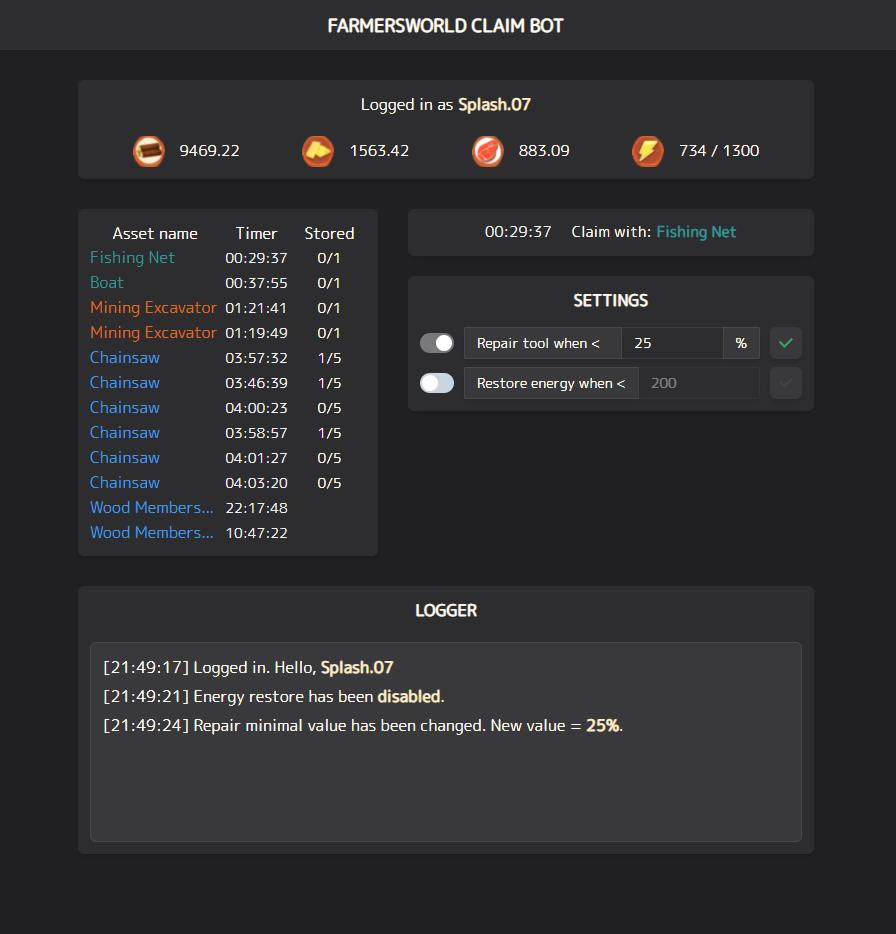
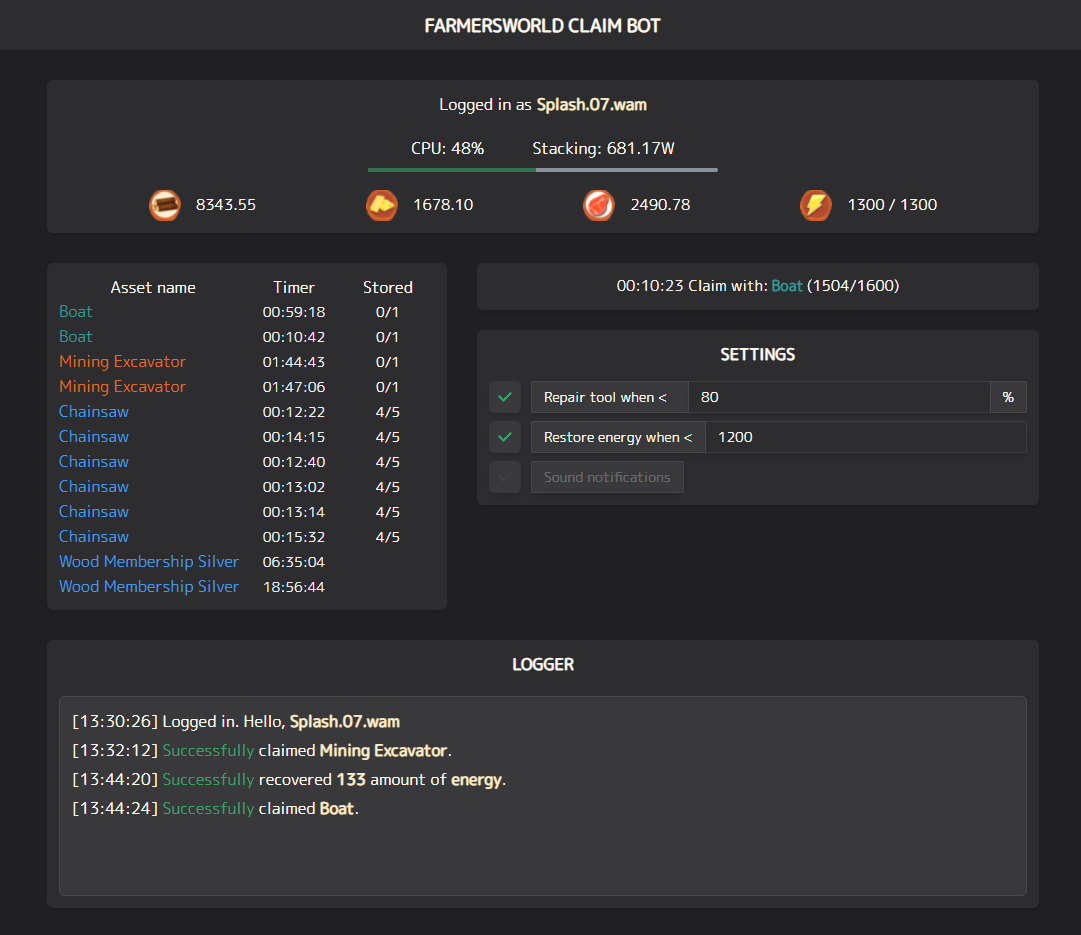
#6 v1.0.0

diff --git a/src/components/NextAction.tsx b/src/components/NextAction.tsx
@@ -13,25 +13,31 @@ const notify_sound = require("../assets/notify_sound.mp3");
 
 const NextAction = () => {
   const { user, settings } = useSelector((state: RootState) => state);
+  const [triggerAction, setTriggerAction] = useState(false);
   const dispatch = useDispatch();
-  const color = getTextColor(user.items.next?.type!);
 
   const [breakPoint480] = useMediaQuery("(min-width: 480px)");
   const [notificationSound] = useSound(notify_sound);
 
+  let nextItem = user.items.next;
+  const color = getTextColor(nextItem?.type!);
+
   useEffect(() => {
-    if (user.items.next && user.items.next?.timer_to_action < 0) {
+    console.log(triggerAction);
+    if (triggerAction) {
       (async () => {
         dispatch(toggleUpdateData(false)); // prevent data update, while doing actions
-        await handleNextAction(user, settings);
         if (!settings.soundIsDisabled) notificationSound();
-        await sleep(8000);
+        await handleNextAction(user, settings);
+        await sleep(5000);
         dispatch(toggleUpdateData(true));
+        await sleep(3000);
+        setTriggerAction(false);
       })();
     }
-  }, [user.items.next?.timer_to_action, user.items.next]);
+  }, [triggerAction]);
 
-  if (user.items.next?.timer_to_action === undefined) return <div>Loading</div>;
+  if (nextItem?.timer_to_action === undefined) return <div>Loading</div>;
 
   return (
     <Flex
@@ -44,16 +50,14 @@ const NextAction = () => {
       justifyContent="center"
       fontSize="15px"
     >
-      {/* <Box color={user.items.next.timer_to_action < 0 ? "tomato" : "whiteAlpha.900"}>{msToTime(user.items.next.timer_to_action)}</Box> */}
-      <Countdown timer={user.items.next.timer_to_action} />
-      <Flex gap="3px">
+      {/* <Box color={nextItem.timer_to_action < 0 ? "tomato" : "whiteAlpha.900"}>{msToTime(nextItem.timer_to_action)}</Box> */}
+      <Countdown setTriggerAction={setTriggerAction} timer={nextItem.timer_to_action} />
+      <Flex gap="3px" alignItems="center">
         <Text display={breakPoint480 ? "block" : "none"}>Claim with:</Text>
-        <Text color={color} fontWeight="semibold" maxWidth="20ch" isTruncated>
-          {assetNameMap.get(user.items.next.template_id.toString())}
+        <Text color={color} fontWeight="semibold" maxWidth="50ch" isTruncated>
+          {assetNameMap.get(nextItem.template_id.toString())}
         </Text>
-        <Text>{`(${
-          "durability" in user.items.next ? `${user.items.next.current_durability}/${user.items.next.durability})` : ""
-        }`}</Text>
+        <Text>{`(${"durability" in nextItem ? `${nextItem.current_durability}/${nextItem.durability})` : ""}`}</Text>
       </Flex>
     </Flex>
   );

diff --git a/src/components/ToolsList.tsx b/src/components/ToolsList.tsx
@@ -43,16 +43,16 @@ const ToolsList = () => {
       const currentlyStored = canBeStored - Math.ceil(timer / hour);
       return (
         <GridItem key={key} display="flex" alignItems="center" justifyContent="space-between" w="100%">
-          <Box minWidth="130px" overflow="hidden" isTruncated color={color}>
+          <Box overflow="hidden" isTruncated color={color} w="100%">
             {toolName}
           </Box>
-          <Flex justifyContent="center" w="100%" fontSize="14px" color={timer < 0 ? "tomato" : "whiteAlpha.900"}>
+          <Flex justifyContent="center" w="50%" fontSize="14px" color={timer < 0 ? "tomato" : "whiteAlpha.900"}>
             {msToTime(timer)}
           </Flex>
           {!assetNameMap.get(template_id)?.includes("Membership") ? (
-            <Flex justifyContent="center" w="100%" fontSize="14px">{`${currentlyStored}/${canBeStored}`}</Flex>
+            <Flex justifyContent="center" w="50%" fontSize="14px">{`${currentlyStored}/${canBeStored}`}</Flex>
           ) : (
-            <Flex justifyContent="center" w="100%" fontSize="14px"></Flex>
+            <Flex justifyContent="center" w="50%" fontSize="14px"></Flex>
           )}
         </GridItem>
       );
@@ -69,16 +69,16 @@ const ToolsList = () => {
       boxShadow="md"
       overflowX="auto"
       w="100%"
-      maxWidth="300px"
+      maxWidth="400px"
     >
       <GridItem display="flex" alignItems="center" justifyContent="space-between" w="100%" textAlign={"center"}>
-        <Flex w="100%" minWidth="130px" justifyContent="center">
+        <Flex w="100%" justifyContent="center">
           Asset name
         </Flex>
-        <Flex justifyContent="center" textAlign="center" w="100%">
+        <Flex justifyContent="center" textAlign="center" w="50%">
           Timer
         </Flex>
-        <Flex justifyContent="center" textAlign="center" w="100%">
+        <Flex justifyContent="center" textAlign="center" w="50%">
           Stored
         </Flex>
       </GridItem>

diff --git a/src/components/Countdown.tsx b/src/components/Countdown.tsx
@@ -1,17 +1,30 @@
 import { Box } from "@chakra-ui/react";
-import { useEffect, useState } from "react";
+import { Dispatch, SetStateAction, useEffect, useState } from "react";
 import { msToTime } from "../utils/timers";
 
-const Countdown = ({ timer }: { timer: number }) => {
+const Countdown = ({
+  timer,
+  setTriggerAction,
+}: {
+  timer: number;
+  setTriggerAction: Dispatch<SetStateAction<boolean>>;
+}) => {
   const [ms, setMs] = useState(timer);
   useEffect(() => {
     setMs(timer);
   }, [timer]);
 
   useEffect(() => {
-    const interval = setInterval(() => setMs(ms - 1000), 1000);
-    return () => clearInterval(interval);
-  }, [ms]);
+    // delay before claim action
+    const delay = 5000;
+    if (ms + delay < 0) {
+      console.log(ms);
+      setTriggerAction(true);
+    } else {
+      const interval = setInterval(() => setMs(ms - 1000), 1000);
+      return () => clearInterval(interval);
+    }
+  }, [ms, setTriggerAction]);
 
   return <Box color={ms < 0 ? "tomato" : "whiteAlpha.900"}>{msToTime(ms)}</Box>;
 };

diff --git a/src/components/Logger.tsx b/src/components/Logger.tsx
@@ -8,7 +8,7 @@ const Logger = () => {
   const log = useRef<HTMLDivElement>(null);
   useEffect(() => {
     const logBox = log.current!;
-    if (logBox.scrollTop + logBox.clientHeight >= logBox.scrollHeight - 50) {
+    if (logBox.scrollTop + logBox.clientHeight >= logBox.scrollHeight - 80) {
       logBox.scrollTo(0, logBox.scrollHeight);
     }
   }, [settings.loggerArray]);

diff --git a/src/store/slices/settings.slice.ts b/src/store/slices/settings.slice.ts
@@ -12,7 +12,6 @@ export interface SettingsState {
   loggerArray: string[];
   soundIsDisabled: boolean;
 }
-// если данные false -> грузим данные, записываем все и ставим на true
 const initialState: SettingsState = {
   minRepair: 50,
   minEnergy: 200,

diff --git a/src/components/Settings.tsx b/src/components/Settings.tsx
@@ -63,7 +63,7 @@ const Settings = () => {
               lineHeight="30px"
               fontSize="14px"
             >
-              Claim sound notifications
+              Sound notifications
             </Box>
           </SettingBar>
         </WrapItem>

diff --git a/src/App.tsx b/src/App.tsx
@@ -25,7 +25,7 @@ function App() {
     <ChakraProvider theme={theme}>
       <Box h={"100vh"}>
         <Header />
-        <Container maxW={"container.md"}>
+        <Container maxW={"container.lg"}>
           <Home />
         </Container>
       </Box>

diff --git a/README.md b/README.md
@@ -43,5 +43,6 @@ npm start
 Pull requests are welcome. For feature requests and bug reports, please open an issue first to discuss what you would like to change.
 
 Thanks [Shr1xy](https://github.com/Shr1xy) for account sharing for testing.
+
 More profound version of farmersworld bot [by shakhruz](https://github.com/shakhruz/angelfarmers-ui).
 ![Alt text](/public/FWbot.png)
